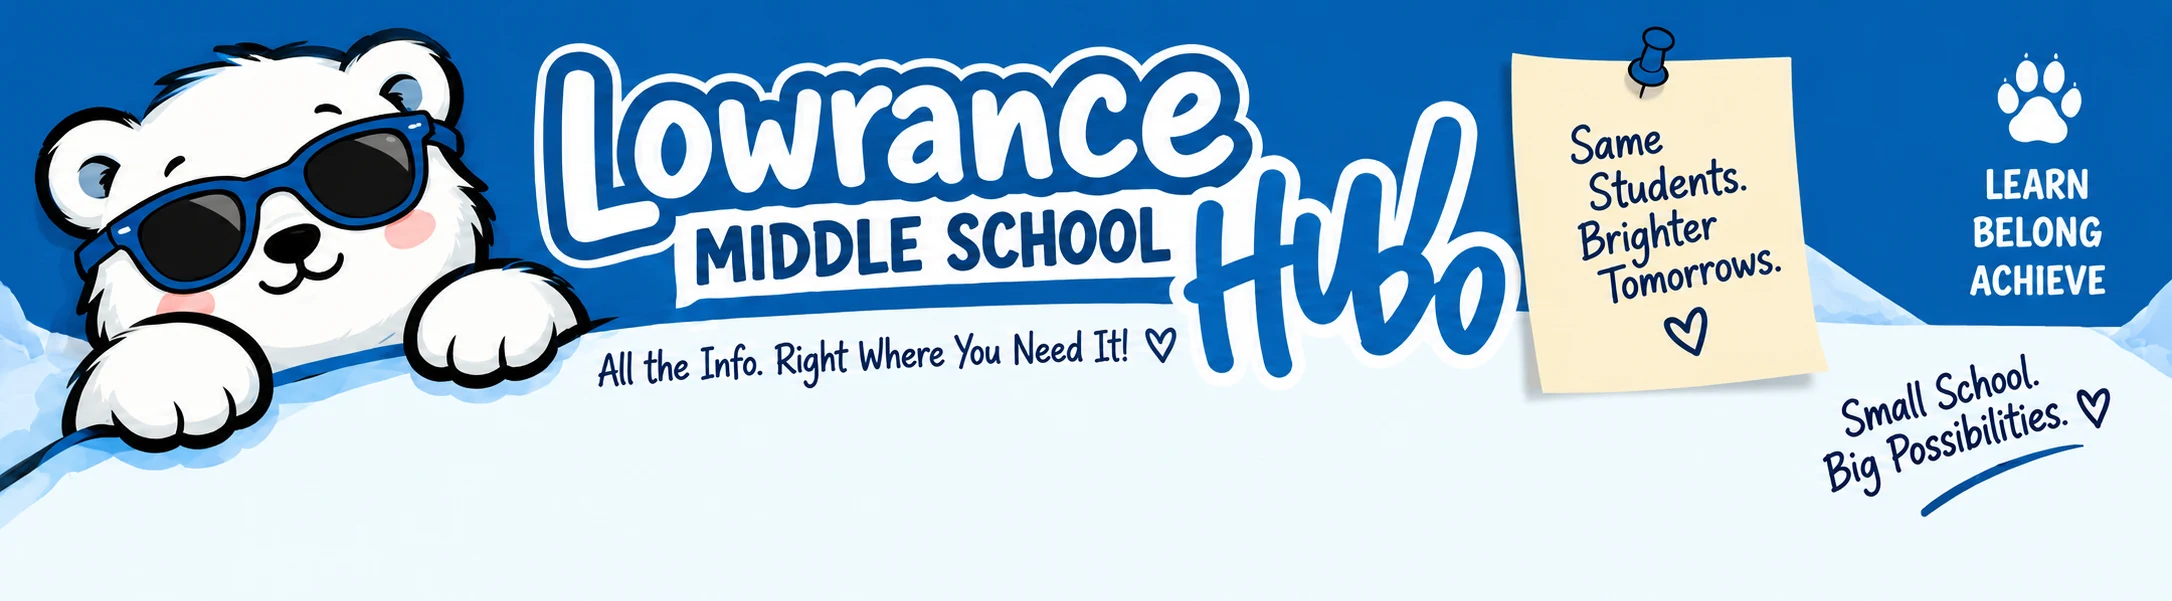
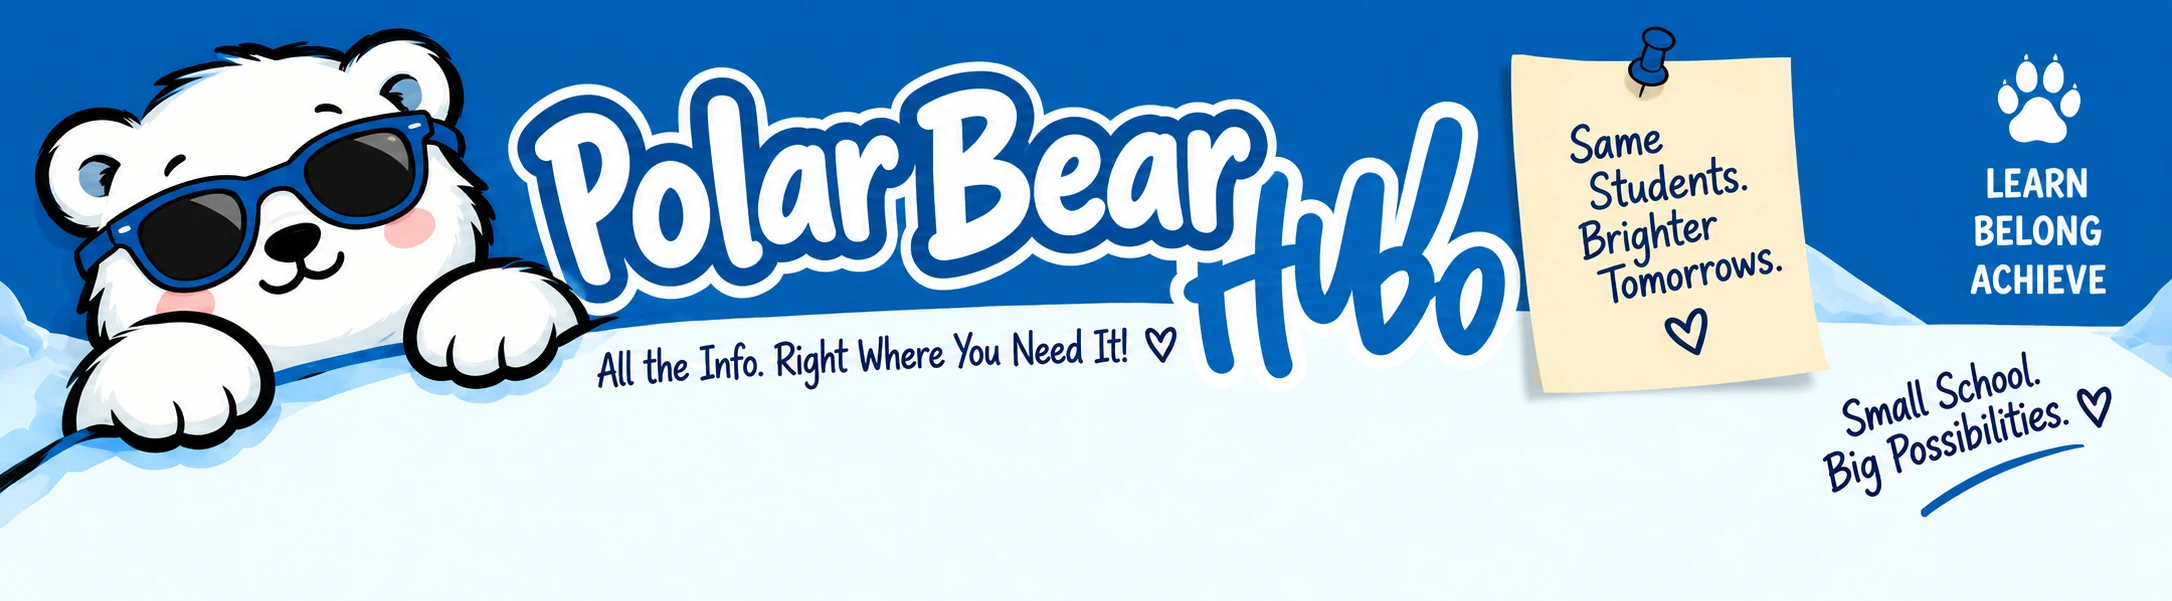
Add files via upload

diff --git a/src/data/seed.js b/src/data/seed.js
@@ -1,5 +1,5 @@
 // Sample/placeholder content. Real titles/URLs should be entered by the
-// administrator in /admin — nothing here is a real Lowrance destination.
+// administrator in /admin — nothing here is a real destination.
 
 export const seedCategories = [
   { id: 'schedules', name: 'Schedules', description: 'Bell schedules, delays, and lunch times.', icon: 'calendar', order: 1, active: true },
@@ -19,7 +19,7 @@ export const seedResources = [
   { id: 'r4', title: 'Testing Schedule', url: '#', categoryId: 'schedules', description: 'Dates and times for standardized testing.', keywords: ['testing', 'exam'], active: true, order: 4 },
   { id: 'r5', title: 'Early Release Schedule', url: '#', categoryId: 'schedules', description: 'Shortened-day schedule.', keywords: ['early release'], active: true, order: 5 },
 
-  { id: 'r6', title: 'School Website', url: '#', categoryId: 'communication', description: 'The main Lowrance Middle School website.', keywords: ['website'], active: true, order: 1 },
+  { id: 'r6', title: 'School Website', url: '#', categoryId: 'communication', description: 'The main Polar Bear Hub school website.', keywords: ['website'], active: true, order: 1 },
   { id: 'r7', title: 'Staff Announcements', url: '#', categoryId: 'communication', description: 'Weekly staff bulletin.', keywords: ['announcements', 'bulletin'], active: true, order: 2 },
   { id: 'r8', title: 'Family Communication', url: '#', categoryId: 'communication', description: 'How the school reaches families.', keywords: ['newsletter', 'family'], active: true, order: 3 },
 

diff --git a/src/components/Header.jsx b/src/components/Header.jsx
@@ -55,7 +55,7 @@ export default function Header({ query, onQueryChange, isAdmin }) {
             <source srcSet="/images/header-banner.webp" type="image/webp" />
             <img src="/images/header-banner.png" alt="" className="lh-header__artimg" />
           </picture>
-          <h1 className="visually-hidden">Lowrance Middle School Hub</h1>
+          <h1 className="visually-hidden">Polar Bear Hub</h1>
           <p className="visually-hidden">All the info. Right where you need it.</p>
           <Link to="/admin" className="lh-header__admin lh-header__admin--art" aria-label="Admin login">
             {isAdmin ? 'Admin dashboard' : 'Admin'}
@@ -72,9 +72,9 @@ export default function Header({ query, onQueryChange, isAdmin }) {
         <BearWaving className="lh-header__bear" size={96} />
         <div className="lh-header__titles">
           <h1 className="lh-display lh-header__title">
-            Lowrance <span className="lh-header__title-sub">Middle School Hub</span>
+            Polar Bear <span className="lh-header__title-sub">Hub</span>
           </h1>
-          <p className="lh-header__tagline">Everything you need, right where you expect to find it.</p>
+          <p className="lh-header__tagline">All the info. Right where you need it.</p>
         </div>
         <Link to="/admin" className="lh-header__admin" aria-label="Admin login">
           {isAdmin ? 'Admin dashboard' : 'Admin'}

diff --git a/index.html b/index.html
@@ -3,8 +3,8 @@
   <head>
     <meta charset="UTF-8" />
     <meta name="viewport" content="width=device-width, initial-scale=1.0" />
-    <title>Lowrance Middle School Hub</title>
-    <meta name="description" content="Everything you need, right where you expect to find it." />
+    <title>Polar Bear Hub</title>
+    <meta name="description" content="All the info. Right where you need it." />
     <link rel="preconnect" href="https://fonts.googleapis.com">
     <link rel="preconnect" href="https://fonts.gstatic.com" crossorigin>
     <link href="https://fonts.googleapis.com/css2?family=Baloo+2:wght@500;600;700;800&family=Nunito+Sans:wght@400;600;700;800&display=swap" rel="stylesheet">

diff --git a/src/components/Footer.jsx b/src/components/Footer.jsx
@@ -8,7 +8,7 @@ export default function Footer() {
       <div className="lh-footer__scene" role="img" aria-label="Illustrated snowy hills with paw prints, a trail signpost reading Kind People, Bright Minds, Bold Futures, and a sleepy polar bear, under the words Home of the Polar Bears" />
       <div className="lh-footer__credits">
         <PawPrint className="lh-footer__paw" size={18} fill="#a9c6ee" />
-        <p className="lh-footer__title">Lowrance Middle School Hub</p>
+        <p className="lh-footer__title">Polar Bear Hub</p>
         <p className="lh-footer__credit">
           © {year} Grace Campbell-Sheran • A GCS Creatives Project
         </p>

diff --git a/src/components/PolarBear.jsx b/src/components/PolarBear.jsx
@@ -7,7 +7,7 @@ const shared = {
 
 export function BearWaving({ className, size = 120 }) {
   return (
-    <svg className={className} width={size} height={size} viewBox="0 0 120 120" role="img" aria-label="Lowrance polar bear mascot waving">
+    <svg className={className} width={size} height={size} viewBox="0 0 120 120" role="img" aria-label="Polar Bear Hub mascot waving">
       <circle cx="60" cy="66" r="40" fill="#ffffff" stroke="#12203a" strokeWidth="3" />
       <circle cx="34" cy="40" r="13" fill="#ffffff" stroke="#12203a" strokeWidth="3" />
       <circle cx="86" cy="40" r="13" fill="#ffffff" stroke="#12203a" strokeWidth="3" />

diff --git a/src/pages/AdminLogin.jsx b/src/pages/AdminLogin.jsx
@@ -20,7 +20,7 @@ export default function AdminLogin({ user, setUser }) {
     <div className="lh-admin-login">
       <BearWaving size={100} />
       <h1 className="lh-display">Admin Login</h1>
-      <p>Sign in with your invited Lowrance Hub account.</p>
+      <p>Sign in with your invited Polar Bear Hub account.</p>
       {user && !isAdmin(user) && (
         <p className="lh-admin-login__error">
           You're signed in, but this account doesn't have admin access yet. Ask an existing admin to grant the "admin" role.

diff --git a/README.md b/README.md
@@ -1,4 +1,4 @@
-# Lowrance Middle School Hub
+# Polar Bear Hub
 
 A GCS Creatives project by Grace Campbell-Sheran.
 
@@ -25,7 +25,7 @@ netlify/functions/
 ```bash
 git init
 git add .
-git commit -m "Lowrance Middle School Hub - initial scaffold"
+git commit -m "Polar Bear Hub - initial scaffold"
 git branch -M main
 git remote add origin https://github.com/<your-username>/<your-repo>.git
 git push -u origin main
@@ -73,11 +73,14 @@ though it works under `netlify dev` locally) — a known gap between Blobs'
 strong-consistency mode and this function style. It isn't needed here
 anyway: every write returns the freshly-written object directly, and the
 admin dashboard merges that response straight into its own list instead of
-re-fetching, so edits show up instantly regardless. The app creates a store called
-`lowrance-hub-content` on first read and seeds it with the sample
-categories/resources from `src/data/seed.js`. From then on, every admin
-edit writes straight back to that same store with strong-consistency reads,
-so changes appear immediately in the admin dashboard.
+re-fetching, so edits show up instantly regardless.
+
+The app creates a store called `lowrance-hub-content` on first read and
+seeds it with the sample categories/resources from `src/data/seed.js`.
+From then on, every admin edit writes straight back to that same store.
+(This store name is a technical identifier, not user-facing branding —
+it's left as-is through the Polar Bear Hub rename so any content you've
+already saved in production doesn't get orphaned under a new store name.)
 
 If you ever want to reset content back to the seed data, delete the
 `content` key from the `lowrance-hub-content` store in the Netlify dashboard
